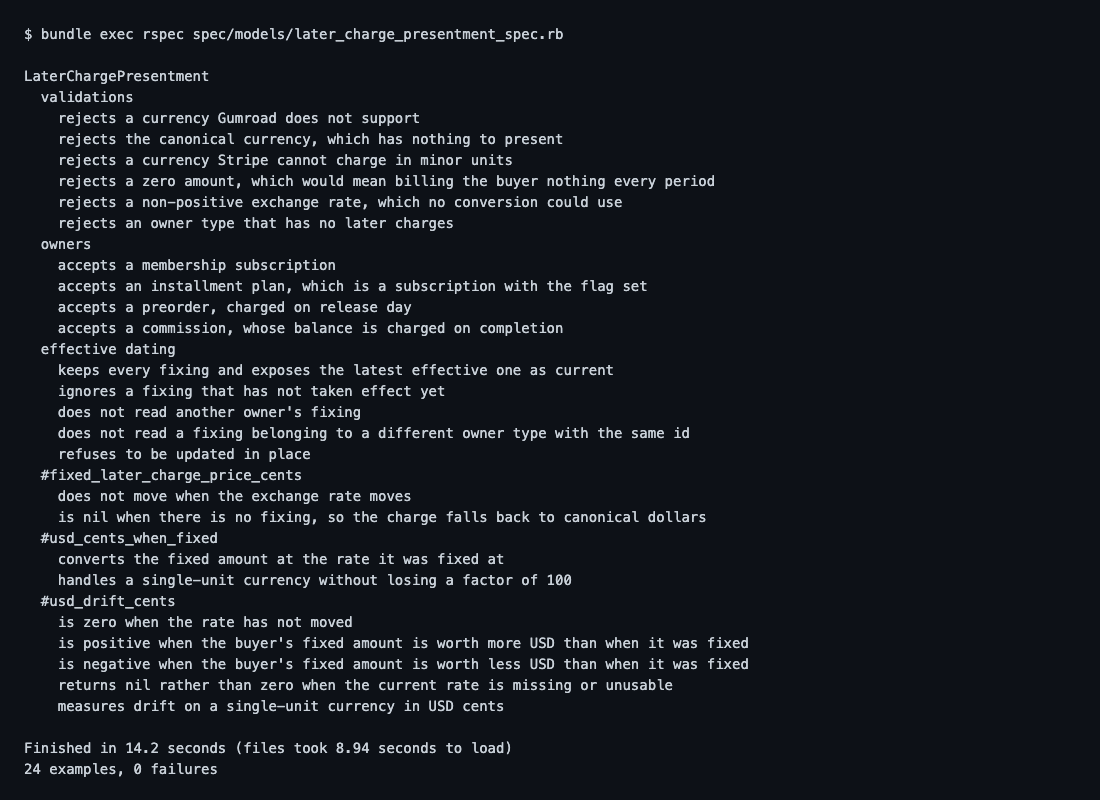
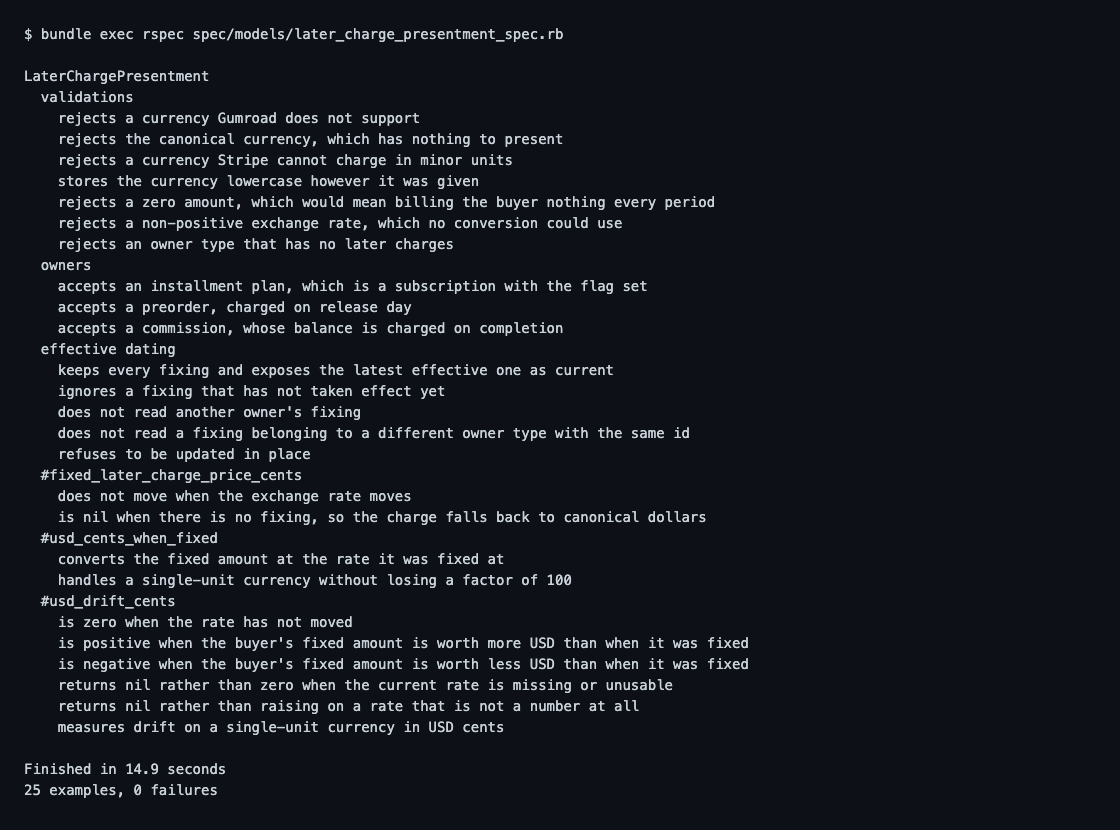
Address the adversarial review of the later-charge presentment store
The pre-merge review returned READY-TO-MERGE with one should-fix and a set of nits. Fixing the
should-fix and the two nits worth taking, plus the trims.

usd_drift_cents promised nil for an unusable rate but raised on a rate that was not a number at
all. CurrencyHelper#get_rate reads a cache and returns a String, so a corrupted entry arrives
here as garbage — and a reporting figure going unanswerable is right where raising out of a
report is not. BigDecimal now parses with exception: false.

The presentment currency is normalized to lowercase on write. charge_presentments rows are
lowercase and the eligibility service only ever produces lowercase, so a mixed-case row would
have validated fine and then silently failed to match either in any comparison.

The Stripe minor-units example now uses New Taiwan dollars, a currency Stripe genuinely only
accepts in amounts divisible by 100, instead of stubbing the gate. It exercises the real check
and would catch a drift in AMOUNT_DIVISIBLE_BY_100_CURRENCIES that a stub hides.

Trims: dropped later_charge_presentment_currency (no caller, and a caller wanting the amount and
the currency should take both off one record rather than running the same lookup twice); dropped
the "accepts a membership subscription" example (fifteen other examples create a
subscription-owned row, so it covered nothing); shortened the migration comment that restated the
model comment it already points at.
[…]

Changed region(s): [[0.0, 0.0312, 0.68, 0.9688]]

diff --git a/spec/models/later_charge_presentment_spec.rb b/spec/models/later_charge_presentment_spec.rb
@@ -22,13 +22,22 @@ describe LaterChargePresentment do
       expect(presentment.errors[:presentment_currency]).to include("is the canonical currency, so there is nothing to present")
     end
 
+    # twd rather than a stubbed currency: Stripe genuinely only accepts New Taiwan dollars in
+    # amounts divisible by 100, so this exercises the real gate and would catch a drift in
+    # StripeChargeProcessor::AMOUNT_DIVISIBLE_BY_100_CURRENCIES that a stub would hide.
     it "rejects a currency Stripe cannot charge in minor units" do
-      allow(StripeChargeProcessor).to receive(:charge_minor_units_compatible?).with("eur").and_return(false)
-
-      presentment = build(:later_charge_presentment, owner: subscription, presentment_currency: "eur")
+      presentment = build(:later_charge_presentment, owner: subscription, presentment_currency: "twd")
 
       expect(presentment).not_to be_valid
       expect(presentment.errors[:presentment_currency]).to include("cannot be charged in minor units by Stripe")
+    end
+
+    # A mixed-case row would fail to match a lowercase charge_presentments row in any comparison,
+    # so the currency is normalized rather than merely accepted.
+    it "stores the currency lowercase however it was given" do
+      presentment = create(:later_charge_presentment, owner: subscription, presentment_currency: "EUR")
+
+      expect(presentment.reload.presentment_currency).to eq("eur")
     end
 
     it "rejects a zero amount, which would mean billing the buyer nothing every period" do
@@ -56,10 +65,6 @@ describe LaterChargePresentment do
   # The four product types in gumroad-private#1322 reduce to three owners, because memberships
   # and installment plans are both Subscriptions internally.
   describe "owners" do
-    it "accepts a membership subscription" do
-      expect(build(:later_charge_presentment, owner: subscription)).to be_valid
-    end
-
     it "accepts an installment plan, which is a subscription with the flag set" do
       plan = create(:subscription, link: create(:product, :with_installment_plan), is_installment_plan: true)
 
@@ -151,7 +156,7 @@ describe LaterChargePresentment do
 
     it "is nil when there is no fixing, so the charge falls back to canonical dollars" do
       expect(subscription.fixed_later_charge_price_cents).to be_nil
-      expect(subscription.later_charge_presentment_currency).to be_nil
+      expect(subscription.current_later_charge_presentment).to be_nil
     end
   end
 
@@ -199,6 +204,13 @@ describe LaterChargePresentment do
       expect(presentment.usd_drift_cents(nil)).to be_nil
       expect(presentment.usd_drift_cents(BigDecimal("0"))).to be_nil
       expect(presentment.usd_drift_cents(BigDecimal("-1"))).to be_nil
+    end
+
+    # CurrencyHelper#get_rate reads a cache and hands back a String, so a corrupted entry reaches
+    # here as garbage. A reporting figure must go unanswerable, not raise out of the report.
+    it "returns nil rather than raising on a rate that is not a number at all" do
+      expect(presentment.usd_drift_cents("not a rate")).to be_nil
+      expect(presentment.usd_drift_cents("NaN")).to be_nil
     end
 
     it "measures drift on a single-unit currency in USD cents" do

diff --git a/app/models/later_charge_presentment.rb b/app/models/later_charge_presentment.rb
@@ -42,6 +42,11 @@ class LaterChargePresentment < ApplicationRecord
 
   belongs_to :owner, polymorphic: true
 
+  # Stored lowercase so a currency comparison against any other presentment table matches.
+  # charge_presentments rows are lowercase and Checkout::BuyerCurrencyEligibility only ever
+  # produces lowercase, so a mixed-case row here would silently fail to join with either.
+  normalizes :presentment_currency, with: -> (currency) { currency&.downcase }
+
   validates :owner_type, inclusion: { in: OWNER_TYPES, message: "does not have later charges to present" }
   validates :processor, presence: true
   validates :presentment_currency, presence: true
@@ -98,8 +103,11 @@ class LaterChargePresentment < ApplicationRecord
     def usd_cents_for(units_per_usd)
       return nil if units_per_usd.blank?
 
-      rate = BigDecimal(units_per_usd.to_s)
-      return nil unless rate.positive?
+      # `exception: false` because this method promises nil for an unusable rate, and the rate can
+      # arrive as a String from CurrencyHelper#get_rate (which reads a cache) — a garbage cached
+      # value should make a reporting figure unanswerable, not raise out of a report.
+      rate = BigDecimal(units_per_usd.to_s, exception: false)
+      return nil if rate.nil? || !rate.positive?
 
       get_usd_cents(presentment_currency, presentment_price_cents, rate:)
     end

diff --git a/db/migrate/20261206000013_create_later_charge_presentments.rb b/db/migrate/20261206000013_create_later_charge_presentments.rb
@@ -6,14 +6,10 @@ class CreateLaterChargePresentments < ActiveRecord::Migration[7.1]
       # Polymorphic because four different things control a charge that happens after checkout,
       # and they share nothing else: a Subscription (memberships and installment plans, which are
       # subscriptions internally), a Preorder (charged on release day), and a Commission (the
-      # balance payment when the seller marks the work complete). Each owns the buyer-currency
-      # amount its own later charges are billed in. See LaterChargePresentment.
+      # balance payment when the seller marks the work complete).
       #
-      # Not unique on the owner: the amount legitimately gets re-fixed mid-life (a membership
-      # upgrade, a quantity change, an expiring fixed-duration discount), and each fixing keeps
-      # the rate it was made at. Rows are immutable and effective-dated so the drift Gumroad
-      # absorbs stays measurable against the right baseline; updating one row in place would
-      # overwrite it.
+      # Deliberately NOT unique on the owner — rows are immutable and effective-dated, one per
+      # fixing. See LaterChargePresentment for why.
       t.references :owner, polymorphic: true, null: false, index: false
       t.string :processor, null: false
       t.string :presentment_currency, null: false

diff --git a/app/models/concerns/has_later_charge_presentments.rb b/app/models/concerns/has_later_charge_presentments.rb
@@ -26,12 +26,10 @@ module HasLaterChargePresentments
   # The buyer-currency amount to bill on a later charge, or nil when there is none and the charge
   # should fall back to canonical US dollars. Deliberately does NOT consult a current exchange
   # rate: the stored amount is what the buyer agreed to and is authoritative.
+  #
+  # A caller needing the currency too should read `current_later_charge_presentment` and take both
+  # off one record rather than asking twice.
   def fixed_later_charge_price_cents
     current_later_charge_presentment&.presentment_price_cents
-  end
-
-  # The currency a later charge should present in, or nil when it should bill canonical dollars.
-  def later_charge_presentment_currency
-    current_later_charge_presentment&.presentment_currency
   end
 end
